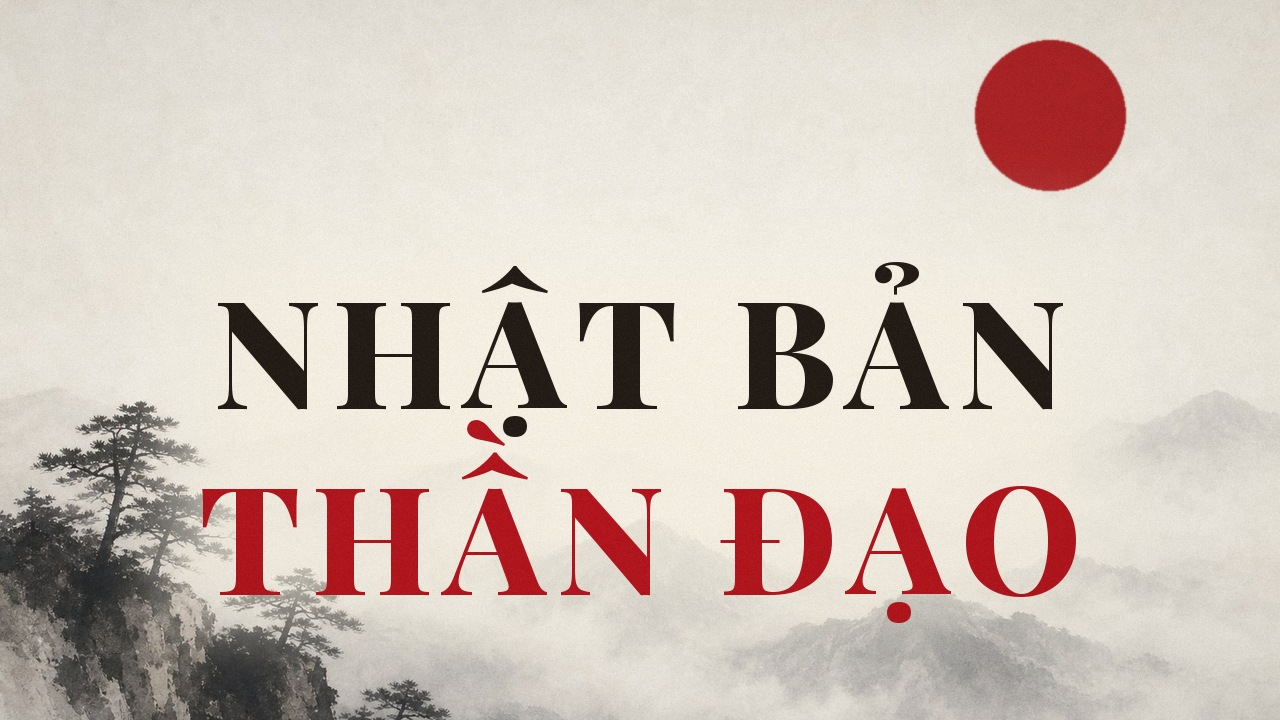
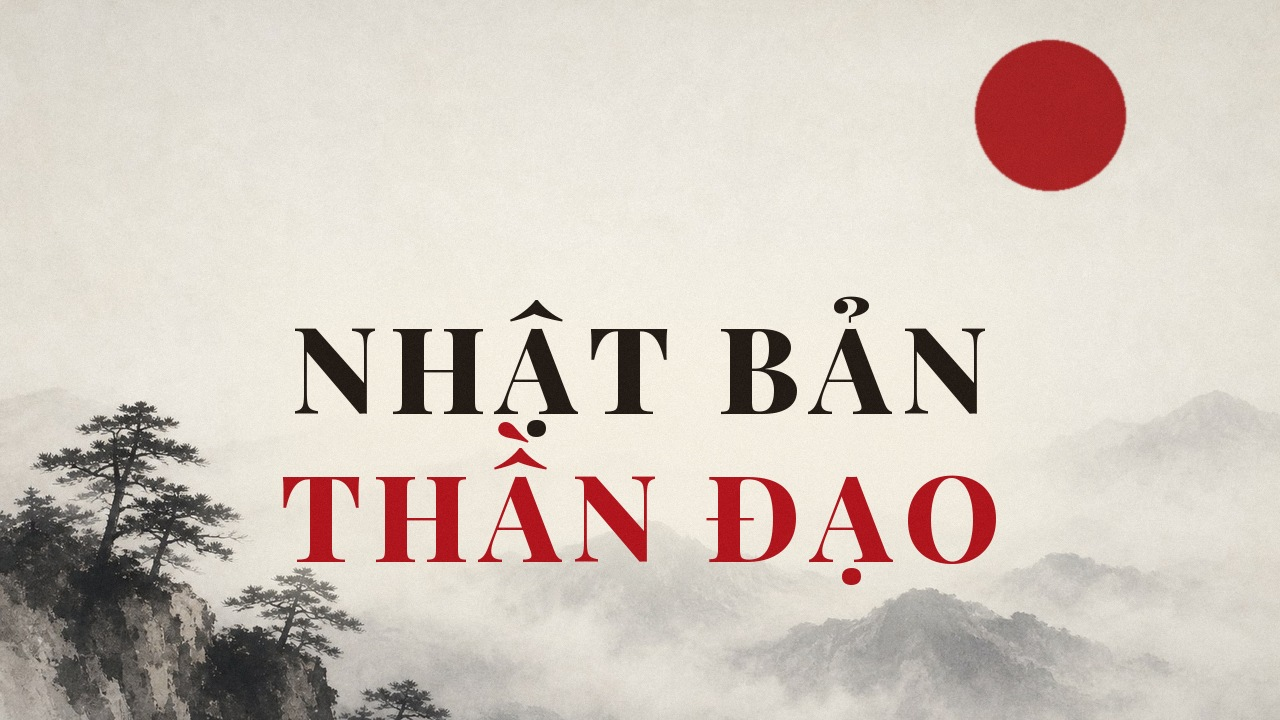
Ảnh bìa video: chữ nhỏ lại (tối đa 120 px, rộng 62% khung)
Claude-Session: https://claude.ai/code/session_011CHVvY2RSwUp2YFgPmmMwF

diff --git a/assets/channel/make_thumb.py b/assets/channel/make_thumb.py
@@ -28,7 +28,7 @@ if not A.box:   # chỉ có chữ, đặt thẳng lên tranh, có quầng giấy
     lines = A.title.split('|')
     for size in range(150, 40, -2):
         ft = ImageFont.truetype(f'{A.F}/{A.font}', size)
-        if max(wsp(l, ft, 10) for l in lines) <= W - 160: break
+        if size <= 120 and max(wsp(l, ft, 10) for l in lines) <= W * 0.62: break
     lh = int(size * 1.24); th = lh * len(lines); ty = int(H * 0.60 - th / 2)
     glow = Image.new('L', (W, H), 0); gd = ImageDraw.Draw(glow)
     for i, l in enumerate(lines):
